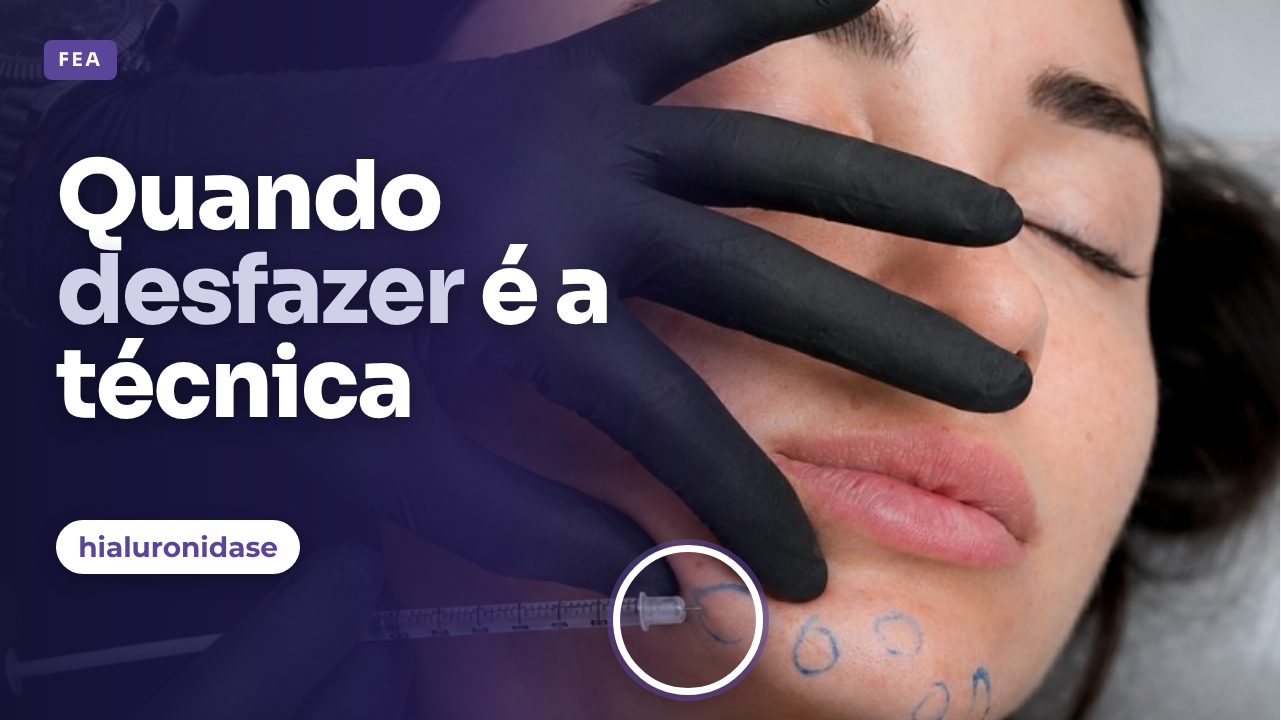
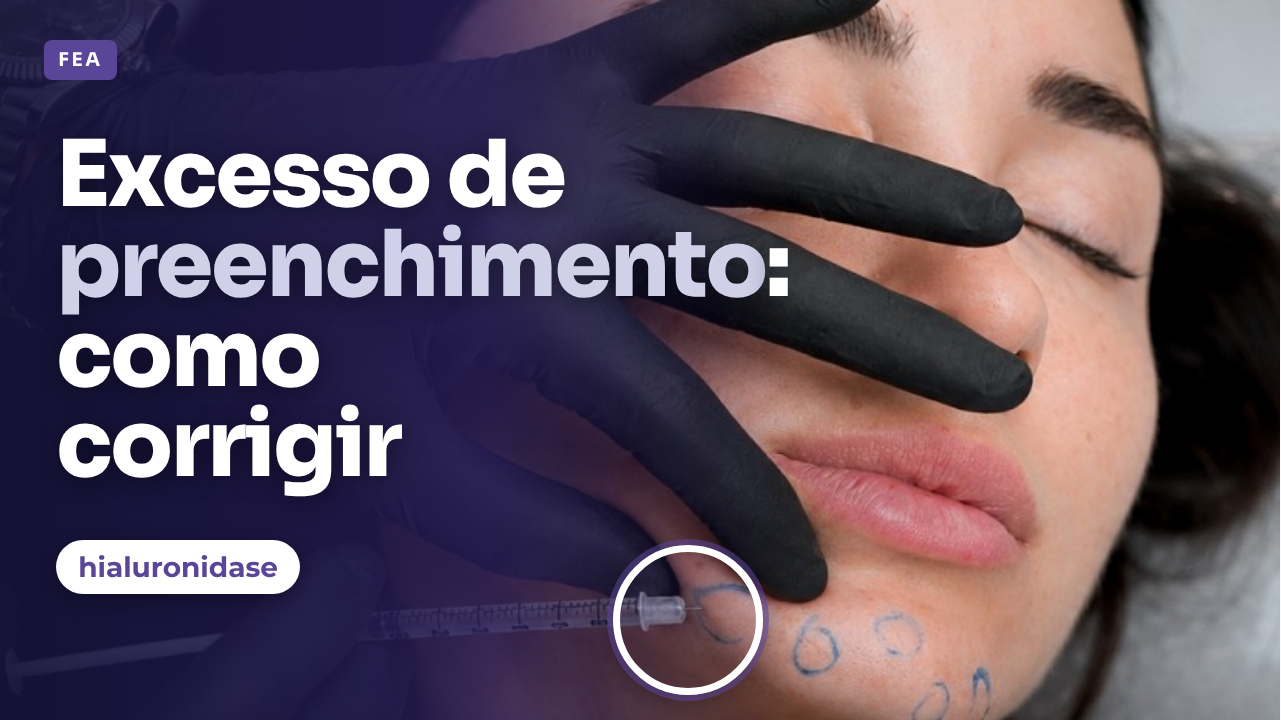
FEA thumbs: headline mais clara na thumb de hialuronidase
Claude-Session: https://claude.ai/code/session_011MH3jdyDdLhbFaeptuadsh

Changed region(s): [[0.0312, 0.1833, 0.6245, 0.7028], [0.0312, 0.7028, 0.2498, 0.825]]

diff --git a/FEA-thumbs-youtube/FEA-thumbs-v2.html b/FEA-thumbs-youtube/FEA-thumbs-v2.html
@@ -43,11 +43,11 @@ body{background:#F9F9F9;font-family:Montserrat,sans-serif;color:#1d1b2e;padding:
  <div class="bg" style="background-image:url(antes/fV64CStfYYE.jpg);background-size:155%;background-position:30% 0%"></div>
  <div class="veu" style="background:linear-gradient(90deg,rgba(22,19,58,.92) 0%,rgba(43,32,96,.75) 38%,rgba(43,32,96,0) 62%)"></div>
  <div class="alvo" style="left:613px;top:545px;width:150px;height:150px"></div>
- <div class="hook" style="left:56px;top:150px;font-size:96px;width:560px">Quando <em>desfazer</em> é a técnica</div>
- <div class="pill" style="left:56px;top:520px">hialuronidase</div>
+ <div class="hook" style="left:56px;top:130px;font-size:92px;width:580px">Excesso de <em>preenchimento</em>: como corrigir</div>
+ <div class="pill" style="left:56px;top:540px">hialuronidase</div>
  <div class="selo">FEA</div>
 </div></div></figure></div>
-<p class="nota"><b>Por quê:</b> "Refinamento hialuronidase" só repete o título. "Quando desfazer é a técnica" abre a pergunta (quando?) que só o vídeo responde, e o círculo leva o olho direto para a ponta da agulha.</p>
+<p class="nota"><b>Por quê:</b> "Refinamento hialuronidase" só repete o título. "Excesso de preenchimento: como corrigir" nomeia o problema que o público reconhece e promete a resposta técnica, que só o vídeo entrega, e o círculo leva o olho direto para a ponta da agulha.</p>
 
 <!-- 2 OLHEIRAS -->
 <div class="par"><figure><figcaption>ANTES</figcaption><img src="antes/tBuVlo_svHw.jpg" alt=""></figure>
